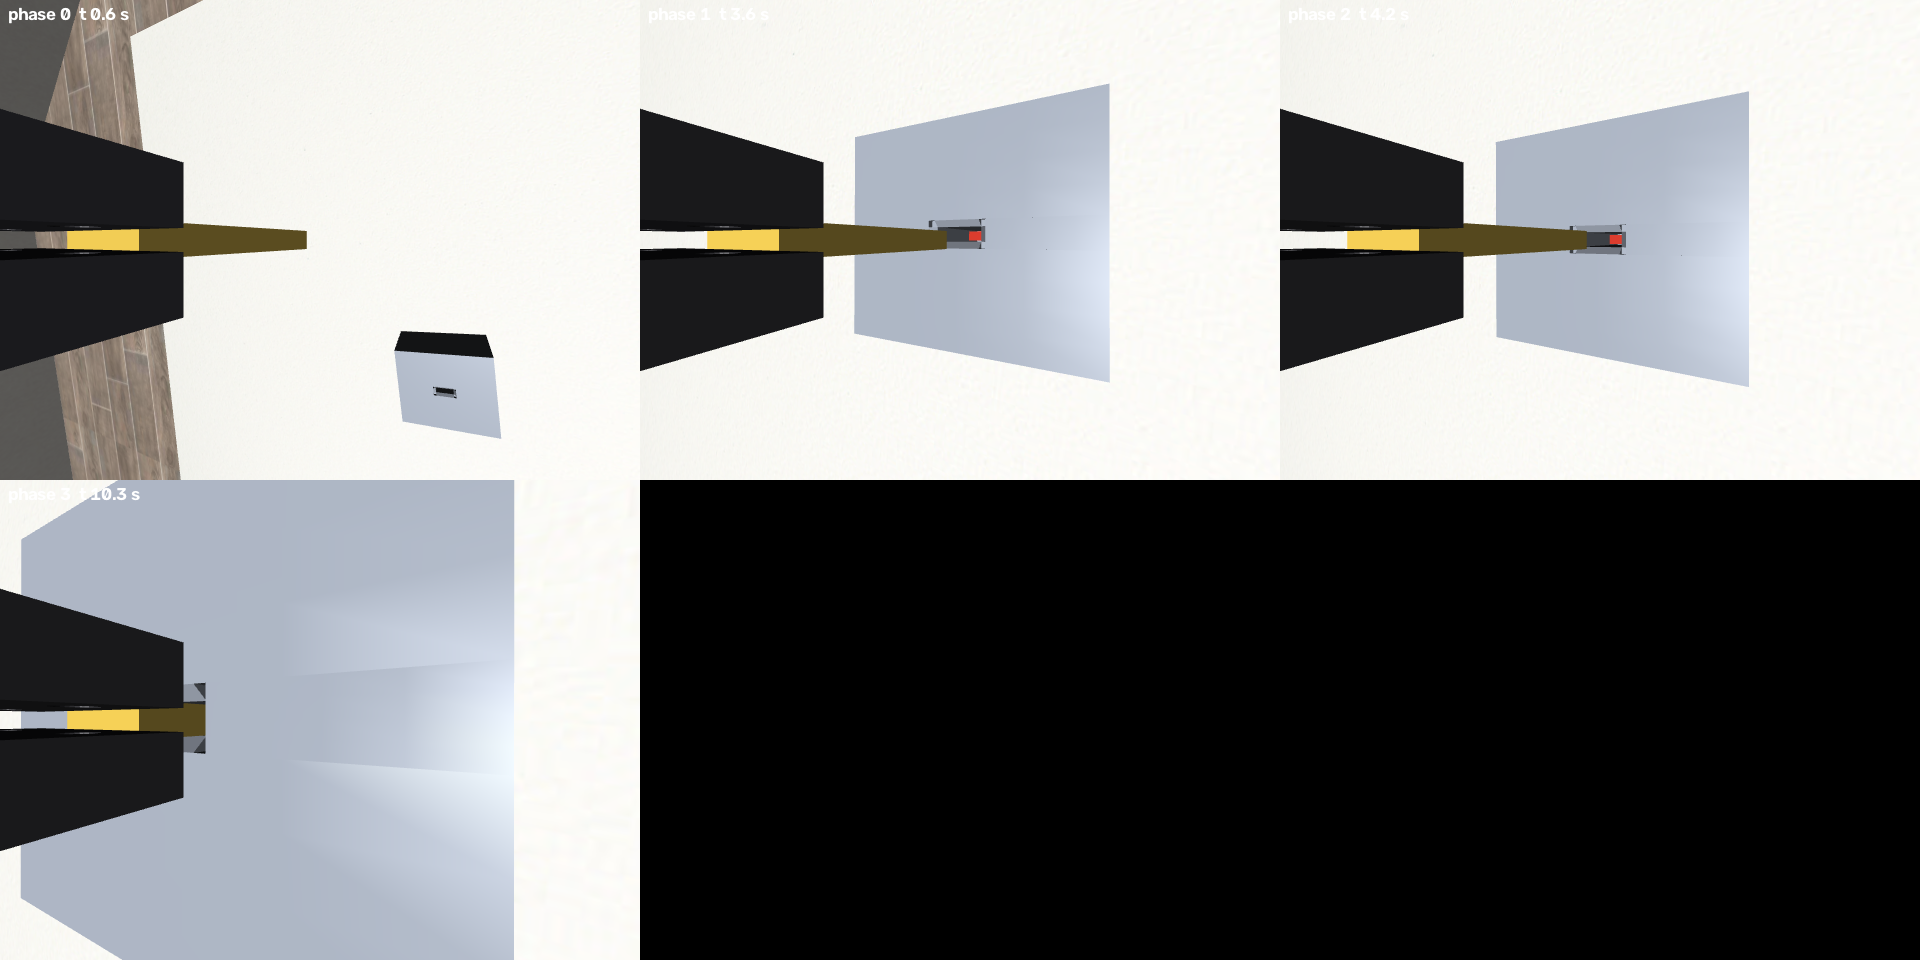
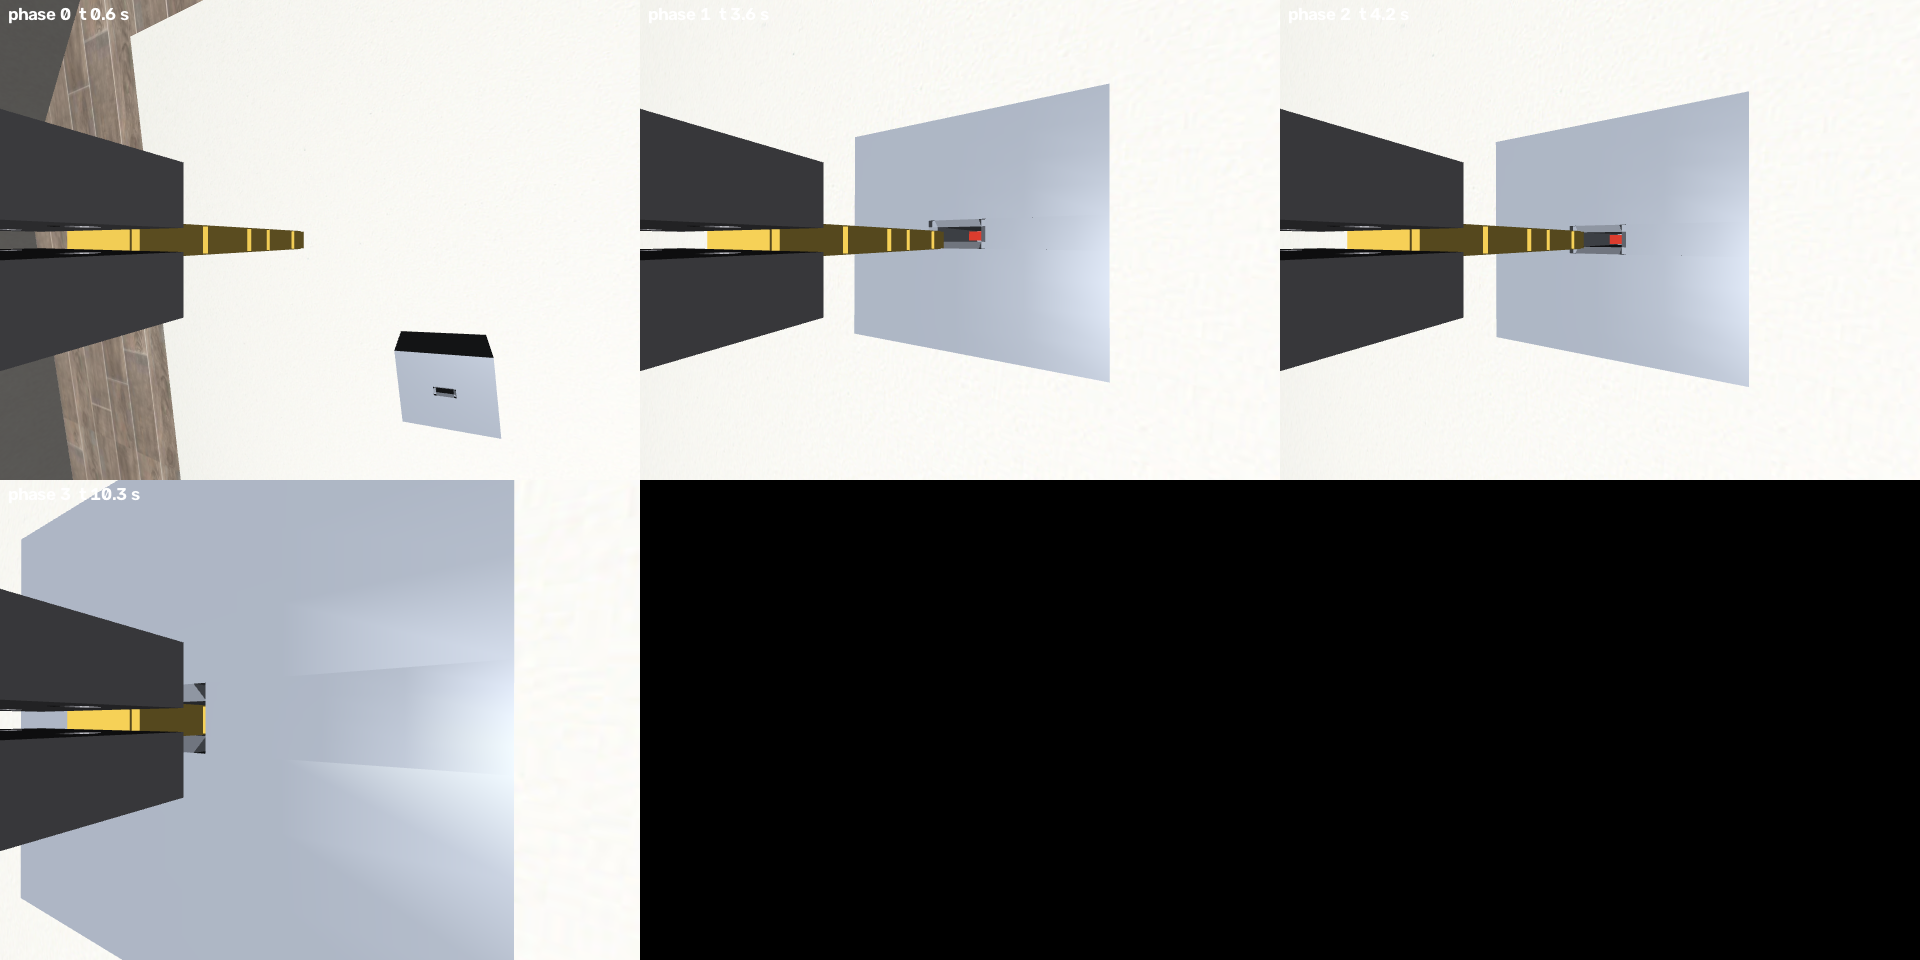
Cut the bitting into the key blade on the camera side

diff --git a/robosuite/robosuite/models/grippers/key_tool.py b/robosuite/robosuite/models/grippers/key_tool.py
@@ -11,14 +11,16 @@ MJCF structure (raw names), +z pointing away from the mount (toward the table wh
       key_mount_vis     (optional) the printed mount as a visual mesh
 
 The blade's width is along the key frame's x, its thickness along y (KeyInsertion's lock frame has the slot's long side
-along y; at lock yaw 0 the robot's initial pose puts the key frame's x there).
+along y; at lock yaw 0 the robot's initial pose puts the key frame's x there). The bitting (the cut edge) is the
+blade's +x edge: visual only, the collision blade stays a box and the lock is sized from it.
 
-The end-effector camera is HSA-UMI's: a wide-angle colour global-shutter USB module (Arducam ezBOX GS B0633, 640x480,
-166 deg diagonal fisheye) on a printed bracket beside the key, looking up the blade at the keyhole. Its placement
-comes from the CAD assemblies (assets/grippers/ee_camera/camera_pose_cam25_top.json): lens 35.5 mm off the key axis
-on the blade-width side, 54.1 mm behind the tip, optical axis tilted 25 deg toward the axis so it crosses the key axis
-22 mm past the tip (where the lock face is once the key is in). The rigid and the HSA mounts differ only in riser
-height; relative to the key tip the camera is at the same place on both, so one definition serves both.
+The end-effector camera is HSA-UMI's: an OmniVision OV9782 colour global-shutter sensor behind a wide-angle lens in an
+Arducam USB module (ezBOX GS, 166 deg diagonal fisheye), run at 640x480, on a printed bracket beside the key looking
+up the blade at the keyhole. It sits on the bitting side and sees the cut edge. Its placement comes from the CAD
+assemblies (assets/grippers/ee_camera/camera_pose_cam25_top.json): lens 35.5 mm off the key axis on the blade-width
+side, 54.1 mm behind the tip, optical axis tilted 25 deg toward the axis so it crosses the key axis 22 mm past the tip
+(where the lock face is once the key is in). The rigid and the HSA mounts differ only in riser height; relative to the
+key tip the camera is at the same place on both, so one definition serves both.
 """
 import hashlib
 import math
@@ -67,20 +69,22 @@ class EECameraConfig:
     The end-effector camera, placed relative to the key tip (all m / deg). Defaults are the CAD assemblies' numbers.
 
     The STL assembly frame (origin at the plate's bottom face, camera on +y) maps onto the key frame by a -90 deg yaw:
-    the camera is on the blade-width side, which is the key frame's +x. Whether it is +x or -x (which end of the blade's
-    width the bracket is on) and whether the image is upright or rolled 180 deg are NOT in the CAD numbers: check both
-    against one real frame and set @side / @roll_180.
+    the camera is on the blade-width side where the bitting is, the key frame's +x (the real bracket faces the cut
+    edge). Whether the image is upright or rolled 180 deg is NOT in the CAD numbers: check against one real frame and
+    set @roll_180.
     """
 
     name: str = "ee_cam"
     offset_from_axis: float = 0.0355  # lens centre to the key axis
     behind_tip: float = 0.05413  # lens centre behind the blade tip, along the key axis (38.87 - 93 mm, rigid CAD)
     tilt_deg: float = 25.0  # optical axis toward the key axis, from the key's +z (atan(0.4226 / 0.9063))
-    side: int = +1  # +1: the camera on the key frame's +x (blade-width) side, -1: on -x
+    side: int = +1  # +1: the camera on the key frame's +x, the bitting side (the real mount); -1: mirrored
     roll_180: bool = False  # True if the real image is upside down relative to this convention
     # Pinhole stand-in for the 166 deg (diagonal) fisheye: fovy that matches the fisheye's pixel scale at the image
     # centre (equidistant f = 400 px / 83 deg = 276 px for 640x480 -> fovy = 2 atan(240 / 276)). The corners of the
-    # real image see more than this; the centre, where the key tip and the keyhole are, matches.
+    # real image see more than this; the centre, where the key tip and the keyhole are, matches. The OV9782 is a
+    # 1280x800 sensor: if the driver's 640x480 is a centre crop rather than a scale, the real field is narrower than
+    # the lens's and this fovy is too wide. Replace it with a checkerboard calibration's focal length.
     fovy: float = 82.0
     width: int = 640
     height: int = 480
@@ -158,6 +162,22 @@ class KeyTool(GripperModel):
         bow = f'size="{c.bow_width / 2} {c.bow_thickness / 2} {c.bow_length / 2}" pos="0 0 {c.bow_length / 2}"'
         blade = f'size="{c.blade_width / 2} {c.blade_thickness / 2} {c.blade_length / 2}" pos="0 0 {c.bow_length + c.blade_length / 2}"'
         assets, camera, mount = "", "", f'<geom name="key_bow_vis" type="box" {bow} contype="0" conaffinity="0" group="1" mass="0" rgba="0.80 0.65 0.25 1"/>'
+        # The blade's look: the bitting cut into the +x edge (depth d, a fixed pattern of teeth), visual only
+        d = min(0.0015, 0.15 * c.blade_width)
+        heights = (0.9, 0.35, 0.7, 0.2, 0.55, 0.8, 0.3, 0.6)
+        n = len(heights)
+        tooth_len = c.blade_length / n
+        blade_vis = [
+            f'<geom name="key_blade_vis" type="box" size="{(c.blade_width - d) / 2:.6g} {c.blade_thickness / 2} {c.blade_length / 2}" '
+            f'pos="{-d / 2:.6g} 0 {c.bow_length + c.blade_length / 2}" contype="0" conaffinity="0" group="1" mass="0" rgba="0.85 0.72 0.30 1"/>'
+        ]
+        for i, h in enumerate(heights):
+            blade_vis.append(
+                f'<geom name="key_tooth{i}_vis" type="box" size="{h * d / 2:.6g} {0.45 * c.blade_thickness:.6g} {0.46 * tooth_len:.6g}" '
+                f'pos="{c.blade_width / 2 - d + h * d / 2:.6g} 0 {c.bow_length + (i + 0.5) * tooth_len:.6g}" '
+                'contype="0" conaffinity="0" group="1" mass="0" rgba="0.85 0.72 0.30 1"/>'
+            )
+        blade_vis = "\n      ".join(blade_vis)
         if self.camera is not None:
             cam = self.camera
             pos, quat = cam.pose_in_key_frame(tip)
@@ -180,7 +200,7 @@ class KeyTool(GripperModel):
       <geom name="key_bow_col" type="box" {bow} mass="{m_bow:.6g}" friction="{fr}" group="0" rgba="0.75 0.6 0.2 1"/>
       {mount}
       <geom name="key_blade_col" type="box" {blade} mass="{m_blade:.6g}" friction="{fr}" group="0" rgba="0.75 0.6 0.2 1"/>
-      <geom name="key_blade_vis" type="box" {blade} contype="0" conaffinity="0" group="1" mass="0" rgba="0.85 0.72 0.30 1"/>
+      {blade_vis}
       {camera}
       <body name="eef" pos="0 0 {tip}" quat="0.707105 0 0 -0.707105">
         <site name="grip_site" pos="0 0 0" size="0.002" rgba="1 0 0 0.5" type="sphere" group="1"/>

diff --git a/scripts/key_insertion/ee_camera.py b/scripts/key_insertion/ee_camera.py
@@ -1,6 +1,7 @@
 """
-HSA-UMI's end-effector camera in the sim: the colour global-shutter module beside the key, looking up the blade at the
-keyhole (robosuite.models.grippers.key_tool.EECameraConfig has the geometry and where it comes from).
+HSA-UMI's end-effector camera in the sim: the OV9782 colour global-shutter module on the bracket beside the key, on
+the bitting side, looking up the blade at the keyhole (robosuite.models.grippers.key_tool.EECameraConfig has the
+geometry and where it comes from).
 
     cd scripts
     MUJOCO_GL=egl python -m key_insertion.ee_camera --out ../demos/ee_cam_check        # one insertion, frames + mp4
@@ -16,9 +17,8 @@ Use from code:
     u, v = pixel(env, env.lock_pose()[0])      # where the keyhole centre lands in the image (col, row)
 
 The image is a pinhole rendering with the fisheye's centre pixel scale (fovy 82 deg); the real lens sees 166 deg
-diagonally, so the real frame's corners show more than the sim's. The sim frame also has the sign ambiguities the CAD
-cannot settle (which side of the blade the bracket is on, whether the image is rolled 180 deg): hold a real frame next
-to a sim frame once and set EECameraConfig.side / roll_180.
+diagonally, so the real frame's corners show more than the sim's. One thing the CAD cannot settle is whether the image
+is upright or rolled 180 deg: hold a real frame next to a sim frame once and set EECameraConfig.roll_180.
 """
 
 import argparse
@@ -150,7 +150,7 @@ def main():
     p.add_argument("--wrist-z", type=float, default=1.0)
     p.add_argument("--dx", type=float, default=0.0, help="aiming error across the slot (mm)")
     p.add_argument("--dyaw", type=float, default=0.0, help="aiming error in yaw (deg)")
-    p.add_argument("--side", type=int, default=1, choices=(1, -1), help="bracket on the key frame's +x or -x")
+    p.add_argument("--side", type=int, default=1, choices=(1, -1), help="bracket on the bitting side (+x, the real mount) or mirrored")
     p.add_argument("--roll-180", action="store_true")
     p.add_argument("--check", action="store_true", help="print the camera geometry and exit (no rendering)")
     p.add_argument("--seed", type=int, default=0)

diff --git a/scripts/key_insertion/README.md b/scripts/key_insertion/README.md
@@ -300,11 +300,12 @@ calibration, the thresholds do.
 
 ## The end-effector camera (`ee_camera.py`, branch `feature/ee_camera`)
 
-HSA-UMI's end-effector camera, a wide-angle colour global-shutter USB module (Arducam ezBOX GS, 640×480) on a printed
-bracket beside the key, is in the sim as a MuJoCo camera on the key body: `robosuite.models.grippers.EECameraConfig`,
-placed from the CAD assemblies (`models/assets/grippers/ee_camera/camera_pose_cam25_top.json`, the two `*.stl`): lens
-35.5 mm off the key axis on the blade-width side, 54.1 mm behind the tip, optical axis tilted 25° toward the axis so it
-crosses it 22 mm past the tip. The rigid and the HSA brackets differ only in riser height; relative to the key tip the
+HSA-UMI's end-effector camera, an OV9782 colour global-shutter sensor behind a wide-angle lens (Arducam USB module,
+run at 640×480) on a printed bracket beside the key, is in the sim as a MuJoCo camera on the key body:
+`robosuite.models.grippers.EECameraConfig`, placed from the CAD assemblies
+(`models/assets/grippers/ee_camera/camera_pose_cam25_top.json`, the two `*.stl`): lens 35.5 mm off the key axis on the
+bitting side (the bracket faces the cut edge of the blade, which the sim draws as teeth on the blade's +x edge),
+54.1 mm behind the tip, optical axis tilted 25° toward the axis so it crosses it 22 mm past the tip. The rigid and the HSA brackets differ only in riser height; relative to the key tip the
 camera is at the same place on both, so one definition serves both. With it comes `KeyConfig.measured()`, the real
 mount's geometry (riser + jaws 43.5 mm above the plate, blade tip 80 mm): the default 43 mm key would put the camera
 inside the wrist's top plate. The printed bracket is a visual mesh on the key, so the jaws fill the near field of the
@@ -326,9 +327,9 @@ observation (480×640×3, 6 s per episode with EGL); `ee_camera.frame(obs)` retu
 `ee_camera.pixel(env, point)` projects a world point into it. The key tip is rigid to the camera, so it sits on one
 pixel, (280, 239), through every episode; the keyhole centre moves, and is the label a detector would learn.
 
-Two things the CAD cannot settle, each a one-flag fix once a real frame is compared to a sim frame: which side of the
-blade's width the bracket is on (`EECameraConfig.side`) and whether the image is rolled 180° (`roll_180`). And one
-approximation: the real lens is a 166° (diagonal) fisheye, the sim camera a pinhole with the fisheye's pixel scale at
-the image centre (`fovy` 82°), so the real frame's corners show more than the sim's. Match the sim to the real camera
-with a checkerboard calibration (fx, fy, the distortion) once the camera is on the wrist; a fisheye remap of the
-rendered frame is then a few lines.
+One thing the CAD cannot settle, a one-flag fix once a real frame is compared to a sim frame: whether the image is
+rolled 180° (`EECameraConfig.roll_180`). And one approximation: the real lens is a 166° (diagonal) fisheye, the sim
+camera a pinhole with the fisheye's pixel scale at the image centre (`fovy` 82°), so the real frame's corners show more
+than the sim's; and if the driver's 640×480 is a centre crop of the OV9782's 1280×800 rather than a scale, the real
+field is narrower still. Match the sim to the real camera with a checkerboard calibration (fx, fy, the distortion)
+once the camera is on the wrist; a fisheye remap of the rendered frame is then a few lines.

diff --git a/running.md b/running.md
@@ -602,10 +602,11 @@ env = suite.make("KeyDoor", robots="FR3StewartAloha")   # 12-dim action; success
 
 ### End-effector camera (`scripts/key_insertion/ee_camera.py`)
 
-HSA-UMI's wide-angle colour camera beside the key, placed from the CAD bracket (`EECameraConfig`, with
-`KeyConfig.measured()` for the real mount's geometry). `ee_camera.enable()` then `make_env(camera_names=[ee_camera.CAMERA])`
-renders `gripper0_right_ee_cam_image` (480×640) into the observations. Details, the sign ambiguities and the fisheye
-approximation: `scripts/key_insertion/README.md`, "The end-effector camera".
+HSA-UMI's OV9782 wide-angle colour camera beside the key, on the bitting side, placed from the CAD bracket
+(`EECameraConfig`, with `KeyConfig.measured()` for the real mount's geometry). `ee_camera.enable()` then
+`make_env(camera_names=[ee_camera.CAMERA])` renders `gripper0_right_ee_cam_image` (480×640) into the observations.
+Details, the image-roll check and the fisheye approximation: `scripts/key_insertion/README.md`, "The end-effector
+camera".
 
 ### SERL version (`KeyInsertionWrist-v0`)
 
